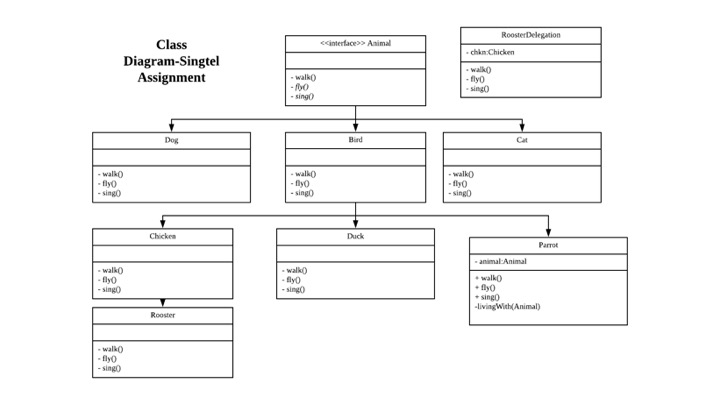
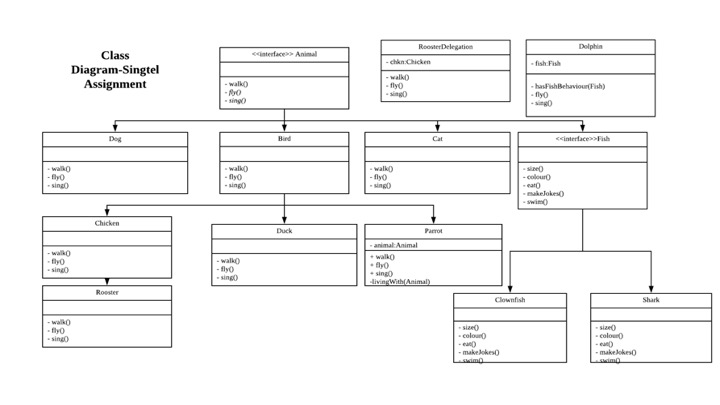
Fifth Commit :B. Model fish as well as other swimming animals

Changed region(s): [[0.0611, 0.0593, 1.0, 0.9481]]

diff --git a/SingTel/src/com/java/singtel/Solution.java b/SingTel/src/com/java/singtel/Solution.java
@@ -3,47 +3,76 @@ package com.java.singtel;
 public class Solution {
 
 	public static void main(String[] args) {
+		System.out.println("----------------DUCK----------------");
 		Animal myDuck =  new Duck();
 		myDuck.walk();
 		myDuck.fly();
 		myDuck.sing();
+		System.out.println("----------------CHICKEN----------------");
 		Animal myChicken =  new Chicken();
 		myChicken.walk();
 		myChicken.fly();
 		myChicken.sing();
+		System.out.println("----------------ROOSTER----------------");
 		Animal myRooster =  new Rooster();
 		myRooster.walk();
 		myRooster.fly();
 		myRooster.sing();
-		
+		System.out.println("----------------ROOSTER DELEGATION ----------------");
 		RoosterDelegation myRoosterDel =  new RoosterDelegation();
 		myRoosterDel.walk();
 		myRoosterDel.fly();
 		myRoosterDel.sing();
-		
+		System.out.println("----------------PARROT LIVING WITH DOGS----------------");
 		Parrot myParrotwithDogs =  new Parrot();
 		myParrotwithDogs.livingWith(new Dog());
 		myParrotwithDogs.walk();
 		myParrotwithDogs.fly();
 		myParrotwithDogs.sing();
-		
+		System.out.println("----------------PARROT LIVING WITH CATS----------------");
 		Parrot myParrotwithCats =  new Parrot();
 		myParrotwithCats.livingWith(new Cat());
 		myParrotwithCats.walk();
 		myParrotwithCats.fly();
 		myParrotwithCats.sing();
-		
+		System.out.println("----------------PARROT LIVING WITH ROOSTERS----------------");
 		Parrot myParrotWithRoosters =  new Parrot();
 		myParrotWithRoosters.livingWith(new Rooster());
 		myParrotWithRoosters.walk();
 		myParrotWithRoosters.fly();
 		myParrotWithRoosters.sing();
-		
+	    System.out.println("----------------PARROT LIVING WITH DUCKS----------------");
 		Parrot myParrotWithDucks =  new Parrot();
 		myParrotWithDucks.livingWith(new Duck());
 		myParrotWithDucks.walk();
 		myParrotWithDucks.fly();
 		myParrotWithDucks.sing();
+		 System.out.println("----------------SHARK----------------");
+	   Shark mySFish = new Shark();
+	   mySFish.fly();
+	   mySFish.sing();
+	   mySFish.walk();
+	   mySFish.swim();
+	   mySFish.colour();
+	   mySFish.eat();
+	   mySFish.makeJokes();
+	   System.out.println("----------------CLOWNFISH----------------");
+	   Clownfish myCFish = new Clownfish();
+	   myCFish.fly();
+	   myCFish.sing();
+	   myCFish.walk();
+	   myCFish.swim();
+	   myCFish.colour();
+	   myCFish.eat();
+	   myCFish.makeJokes();
+	   System.out.println("----------------DOLPHIN----------------");
+	   Dolphin dolphin = new Dolphin();
+	   dolphin.hasFishBehaviour(new Shark());
+	   dolphin.fly();
+	   dolphin.sing();
+	   dolphin.swim();
+	   dolphin.walk();
+	   
 	}
 
 }

diff --git a/SingTel/src/com/java/singtel/Clownfish.java b/SingTel/src/com/java/singtel/Clownfish.java
@@ -1,0 +1,55 @@
+package com.java.singtel;
+
+public class Clownfish implements Fish{
+
+	@Override
+	public void fly() {
+		
+			System.out.println("I cannot fly");
+			
+		
+		
+	}
+
+	@Override
+	public void sing() {
+		System.out.println("I cannot sing");
+		
+	}
+
+	@Override
+	public void walk() {
+		System.out.println("I cannot walk");
+		
+	}
+
+	@Override
+	public void swim() {
+		System.out.println("I can swim");
+		
+	}
+
+	@Override
+	public void size() {
+		System.out.println("I am small");
+		
+	}
+
+	@Override
+	public void colour() {
+		System.out.println("I am Orange in colour");
+	}
+
+	@Override
+	public void eat() {
+		System.out.println("I dont eat other fish");
+		
+	}
+
+	@Override
+	public void makeJokes() {
+		System.out.println("I make Jokes");
+		
+	}
+
+}

diff --git a/SingTel/src/com/java/singtel/Shark.java b/SingTel/src/com/java/singtel/Shark.java
@@ -1,0 +1,52 @@
+package com.java.singtel;
+
+public class Shark implements Fish{
+
+	@Override
+	public void size() {
+		System.out.println("I am large");
+		
+	}
+
+	@Override
+	public void colour() {
+		System.out.println("I am grey in colour");
+	}
+
+	@Override
+	public void eat() {
+		System.out.println("I eat other fish");
+		
+	}
+
+	@Override
+	public void makeJokes() {
+		System.out.println("I don't make Jokes");
+		
+	}
+
+	@Override
+	public void fly() {
+		System.out.println("I cannot fly");
+		
+	}
+
+	@Override
+	public void sing() {
+		System.out.println("I cannot sing");
+		
+	}
+
+	@Override
+	public void walk() {
+		System.out.println("I cannot walk");
+		
+	}
+
+	@Override
+	public void swim() {
+		System.out.println("I can swim");
+		
+	}
+
+}

diff --git a/SingTel/src/com/java/singtel/Dolphin.java b/SingTel/src/com/java/singtel/Dolphin.java
@@ -1,0 +1,34 @@
+package com.java.singtel;
+
+public class Dolphin implements Animal{
+
+	Fish fish;
+	
+	void hasFishBehaviour(Fish fish)
+	{
+		this.fish =fish;
+	}
+	@Override
+	public void fly() {
+		
+		fish.fly();
+
+	}
+
+	@Override
+	public void sing() {
+		fish.sing();
+		
+	}
+
+	@Override
+	public void walk() {
+		fish.walk();
+		
+	}
+	public void swim() {
+		fish.swim();
+		
+	}
+
+}

diff --git a/SingTel/src/com/java/singtel/Fish.java b/SingTel/src/com/java/singtel/Fish.java
@@ -1,0 +1,10 @@
+package com.java.singtel;
+
+interface  Fish extends Animal{
+
+	public void size() ;
+	public void colour() ;
+	public void eat();
+	public void makeJokes();
+	public void swim();
+}

diff --git a/SingTel/src/com/java/singtel/Animal.java b/SingTel/src/com/java/singtel/Animal.java
@@ -4,4 +4,5 @@ interface  Animal {
 	public void fly();
 	public void sing();
 	public void walk();
+	
 }

diff --git a/README.md b/README.md
@@ -1,36 +1,54 @@
 # Singtel-Code-Assignment
 # Project Title
 
-Singtel-Code-Assignment - A. Let’s start with the basics
+Singtel-Code-Assignment - B. Model fish as well as other swimming animals
 
-## Assignment A Let’s start with the basic- 4
-4. Can you model a parrot? We are specifically interested in three parrots, one that
-lived in a house with dogs one in a house with cats, the other lived on a farm next to
-the rooster
+## Assignment B. Model fish as well as other swimming animals
+1. In addition to the birds, can you model a fish?
 
 ```
-a. A parrot living with dogs says: “Woof, woof”
-b. A parrot living with cats says: “Meow”
-c. A parrot living near the rooster says: “Cock-a-doodle-doo”
-d. How do you keep the parrot maintainable? What if we need another parrot
-lives near a Duck? Or near a phone that rings frequently?
+a. Fishes don’t sing
+b. Fishes don’t walk
+c. Fishes can swim
 ```
+2. Can you specialize the fish as a Shark and as a Clownfish?
+
 ```
-Implemented Parrot which uses delegation(also Composition) with the method - "livingWith".One has to pass Instance of the Animal that the Parrot is living to get the desire behaviour (singing).Even if the parrot is living with Ducks, it will work.
+a. Sharks are large and grey
+b. Clownfish are small and colourful (orange)
+c. Clownfish make jokes
+d. Sharks eat other fish
+
+```
+```diff
+created a Fish interface. Created classes Shark and Clownfish which implement
+Fish Inteface.
+
+```
+3. Dolphins are not exactly fish, yet, they are good swimmers
+```
+a. Can you model a dolphin that swims without inheriting from a fish class?
+b. How do you avoid duplicating code or introducing unneeded overhead?
+```
+
+```diff
+Using Composition(over inheritence) solves the problem .With this we can also avoid duplicating the code
 
 ```
 ![Class Diagram](ClassDiagram.jpeg?raw=true "Class Diagram")
-```
+
 ### Prerequisites
+
 ```
 JAVA JRE/JDK and Eclipse IDE 
 ```
 ### Installing
+
 ```
 Eclipse IDE - import the Project as JAVA Project and add the dependencies(if required) 
 ```
 
-## Running the tests
+ ## Running the tests
 
 Run either the Test Class - com.java.singtel.BirdTest.java or Solution.java
 
@@ -40,12 +58,11 @@ Run either the Test Class - com.java.singtel.BirdTest.java or Solution.java
 
 * [Eclipse IDE ](https://www.eclipse.org/downloads/packages/release/photon/r/eclipse-ide-java-developers) - IDE for JAVA
 
-
 ## Versioning
 
  see the [tags on this repository](https://github.com/thotavinaybabu/Singtel-Code-Assignment). 
 
 ## Author
 
-* **VINAY BABU THOTA** - *Initial Checkin* - [SINGTEL-CODE_ASSIGNMENT](https://github.com/thotavinaybabu/Singtel-Code-Assignment)
+***VINAY BABU THOTA** - *Initial Checkin* - [SINGTEL-CODE_ASSIGNMENT](https://github.com/thotavinaybabu/Singtel-Code-Assignment)
 
